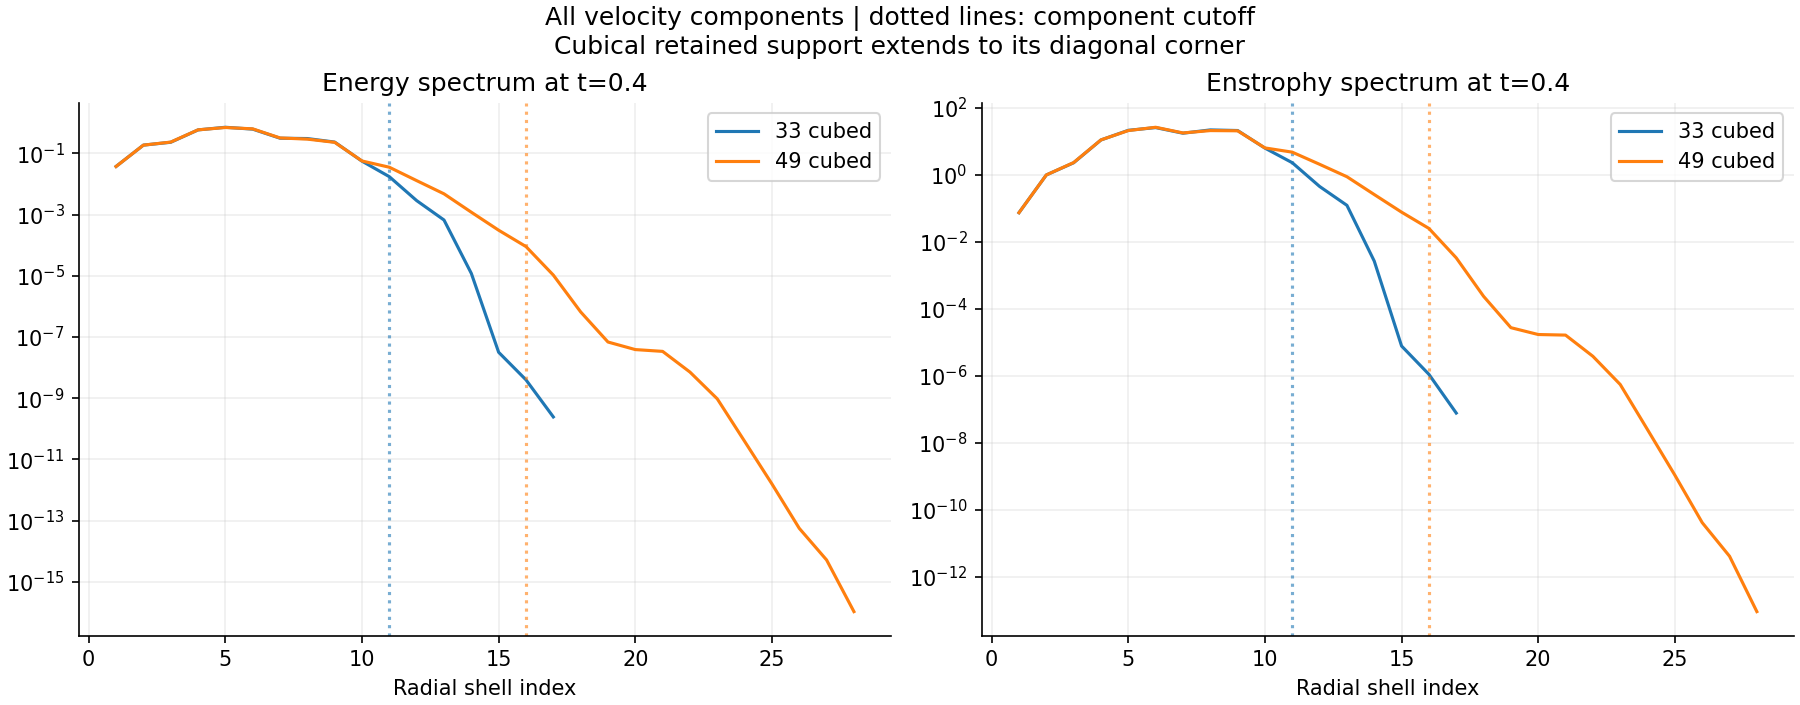
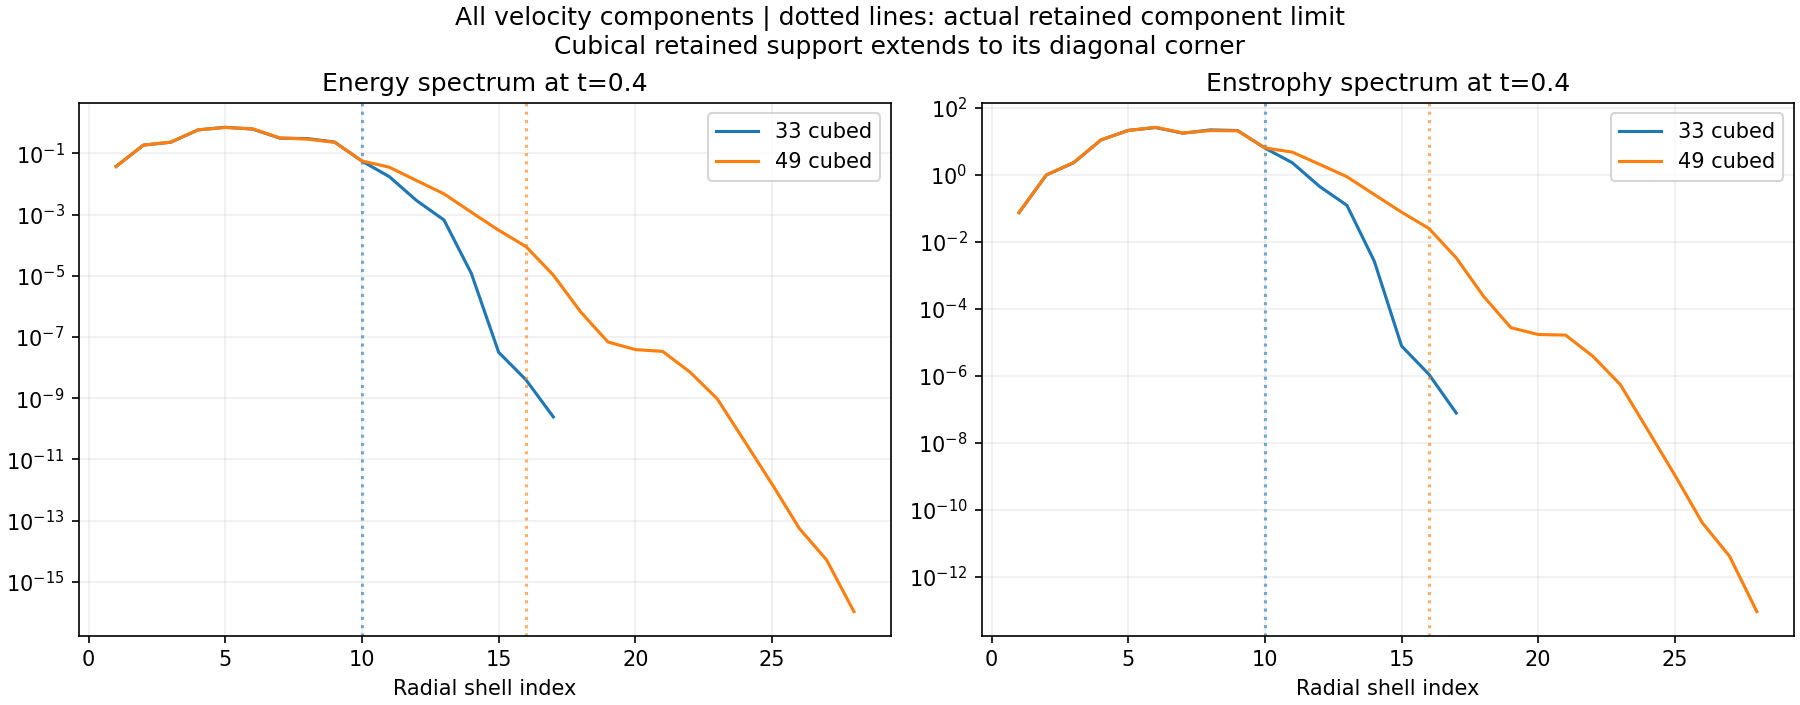
Label actual retained Fourier mask limits in diagnostics

Changed region(s): [[0.9956, 0.1248, 1.0, 0.905], [0.2489, 0.0, 0.7467, 0.0624], [0.1867, 0.1248, 0.2178, 0.156]]

diff --git a/math/imports/hug-ns/mirror-fluid/methods-controls/analyze.py b/math/imports/hug-ns/mirror-fluid/methods-controls/analyze.py
@@ -107,9 +107,11 @@ def main():
         s=runs[name]['rows'][-1]['spectra'];x=np.array(s['shell_index'])
         for ax,key in zip(axes,('energy','enstrophy')):
             y=np.array(s[key]);line=ax.semilogy(x[y>1e-18],y[y>1e-18],label=f'{n} cubed')[0]
-            ax.axvline(s['component_cutoff'],color=line.get_color(),alpha=.6,linestyle=':')
+            _,_,ops,_=initial(m,n)
+            actual_cutoff=float(np.max(np.abs(ops[0][ops[4]]))/(2*np.pi/m.L))
+            ax.axvline(actual_cutoff,color=line.get_color(),alpha=.6,linestyle=':')
             ax.set_title(key.capitalize()+' spectrum at t=0.4');ax.set_xlabel('Radial shell index');ax.grid(alpha=.2);ax.legend()
-    fig.suptitle('All velocity components | dotted lines: component cutoff\nCubical retained support extends to its diagonal corner')
+    fig.suptitle('All velocity components | dotted lines: actual retained component limit\nCubical retained support extends to its diagonal corner')
     fig.savefig(ROOT/'spectra.png',dpi=150);plt.close(fig)
     fig,axes=plt.subplots(1,3,figsize=(13,4.8),layout='constrained')
     for name in ('small lean','gap hug'):

diff --git a/math/imports/hug-ns/mirror-fluid/methods-controls/README.md b/math/imports/hug-ns/mirror-fluid/methods-controls/README.md
@@ -2,13 +2,13 @@
 
 **Mirror responses reproduce, but the coarse grid misses substantial peak spin.** The corrected spectrum check exposes energy and enstrophy near the retained cutoff that the uploaded dashboard's empty-band check could not see.
 
-[Definitions and methods](METHODS.md) · [Measured comparisons](analysis.json) · [Field verification](field-verification.json) · [Breathing animations](../breathing-rerun/timeline/README.md)
+[Definitions and methods](METHODS.md) Â· [Measured comparisons](analysis.json) Â· [Field verification](field-verification.json) Â· [Breathing animations](../breathing-rerun/timeline/README.md)
 
 ## Completed in this publication
 
 Snapshot: 2026-10-09T01:37:44.015173+00:00. **6 of 22 new control runs complete through 0.4.** Only completed runs are included below. Remaining runs continue locally under the fixed [protocol](protocol.json).
 
-- All 48 one-step checks: 3 grids × 2 timesteps × 2 starts × 4 transformations. Largest mirror residual: 2.84e-16; largest transformation residual: 5.51e-16.
+- All 48 one-step checks: 3 grids Ã— 2 timesteps Ã— 2 starts Ã— 4 transformations. Largest mirror residual: 2.84e-16; largest transformation residual: 5.51e-16.
 - All 516 previously saved breathing fields remeasured, including the prescribed input in energy and enstrophy accounting. No breathing evolution was repeated.
 - Five existing source starts audited for energy, enstrophy, circulation and spectra.
 - Completed opposite pairs compared using full saved fields. Largest relative mirror error: 5.99e-15.
@@ -48,6 +48,8 @@ Errors are relative curve L2 differences against the finer control, through the 
 
 ![Spectra](spectra.png)
 
+The nominal 33-grid cutoff is 11, but its floating-point mask actually retains component indices only through 10. The 49 and 65 limits are 16 and 21. The chart marks these measured limits. [Mask audit](mask-audit.json).
+
 ## Saved breathing fields
 
 ![Breathing diagnostics](breathing-checks.png)
@@ -56,7 +58,7 @@ The small-lean run uses dt=0.4/76 and the gap-hug run dt=0.4/134. Outputs occur 
 
 The small-lean final energy residual is -2.21e-07 of its initial energy; the gap-hug residual is -1.76e-05. This accounting includes the kicks. Their maximum high-band enstrophy fractions are 16.64% and 31.09%. Small energy residuals therefore coexist with inadequate spatial resolution.
 
-[Six-case summary](breathing-audit-summary.json) · [Per-step measurements](breathing-diagnostics/) · [Unforced enstrophy budgets](enstrophy-budgets.json)
+[Six-case summary](breathing-audit-summary.json) Â· [Per-step measurements](breathing-diagnostics/) Â· [Unforced enstrophy budgets](enstrophy-budgets.json)
 
 Unforced enstrophy-budget quadrature uses full diagnostic outputs about 0.02 apart; breathing budgets use every step. This difference is recorded explicitly and must be retained when comparing residuals.
 
@@ -70,7 +72,7 @@ Unforced enstrophy-budget quadrature uses full diagnostic outputs about 0.02 apa
 | mirrored_C | 4.60066363 | 209.626762 | -2.276537 | 2.326800 |
 | uneven_70_30 | 4.59986480 | 209.607957 | -2.311721 | 2.291616 |
 
-The loops are counterclockwise 0.6-by-0.6 rectangles centered at x=−0.9 and +0.9, y=0, z=0. Values are exact line integrals of each retained Fourier interpolant. Source addition changes energy by up to 0.213% in this set. The new odd-shape controls match velocity norm and energy; their enstrophy and spectra are measured separately.
+The loops are counterclockwise 0.6-by-0.6 rectangles centered at x=âˆ’0.9 and +0.9, y=0, z=0. Values are exact line integrals of each retained Fourier interpolant. Source addition changes energy by up to 0.213% in this set. The new odd-shape controls match velocity norm and energy; their enstrophy and spectra are measured separately.
 
 ## Reading the outcome
 

diff --git a/math/imports/hug-ns/mirror-fluid/methods-controls/METHODS.md b/math/imports/hug-ns/mirror-fluid/methods-controls/METHODS.md
@@ -85,9 +85,9 @@ The supplied `clay_hug.py` uses Fourier differentiation and two-stage explicit H
 
 NumPy's forward FFT is unnormalized; its inverse divides by `N³`. Modal integrated energy is `0.5 L³ Σ_components |û|²/N⁶`; multiply by `|k|²` for modal enstrophy. All three velocity components contribute.
 
-The supplied mask retains component indices satisfying `|j_x|,|j_y|,|j_z| ≤ floor(N/3)` as evaluated by its existing code. This inclusive rule is retained and audited; it should not be silently replaced by a stricter mask. Boundary-mode aliasing must be tested for grids divisible by three. Passing a symmetry check on particular fields does not prove that the mask removes every possible quadratic alias.
+The supplied mask retains component indices satisfying `|j_x|,|j_y|,|j_z| ≤ floor(N/3)` as evaluated by its existing code. The [actual mask audit](mask-audit.json) matters: floating-point frequency construction excludes the nominal ±11 boundary on 33 cubed, so its largest retained component index is 10. The 49 and 65 grids retain indices through 16 and 21. The existing mask is preserved. Passing a symmetry check on particular fields does not prove that a different mask or grid removes every possible quadratic alias.
 
-The reported high band is the **retained** set where at least one component index reaches 80% of that cutoff. Shell plots sum modes by rounded radial index and mark the component cutoff and outer corner of retained support. The mask is cubical, so there is no single spherical cutoff.
+The reported high band is the **retained** set where at least one component index reaches 80% of the nominal `floor(N/3)` cutoff. On 33 cubed this selects retained component indices 9 and 10. Shell plots sum modes by rounded radial index and mark the actual retained component limit. JSON `component_cutoff` is the nominal index; `radial_support_max` measures the actual outer corner of support. The mask is cubical, so there is no single spherical cutoff.
 
 At every full diagnostic output, record maximum and RMS divergence, relative projection residual, energy and enstrophy spectra, and high-band fractions. The original uploaded band `k²>0.6 max_grid(k²)` contains no retained modes on its 33³ grid. Its reported zero could not diagnose resolution.
 
